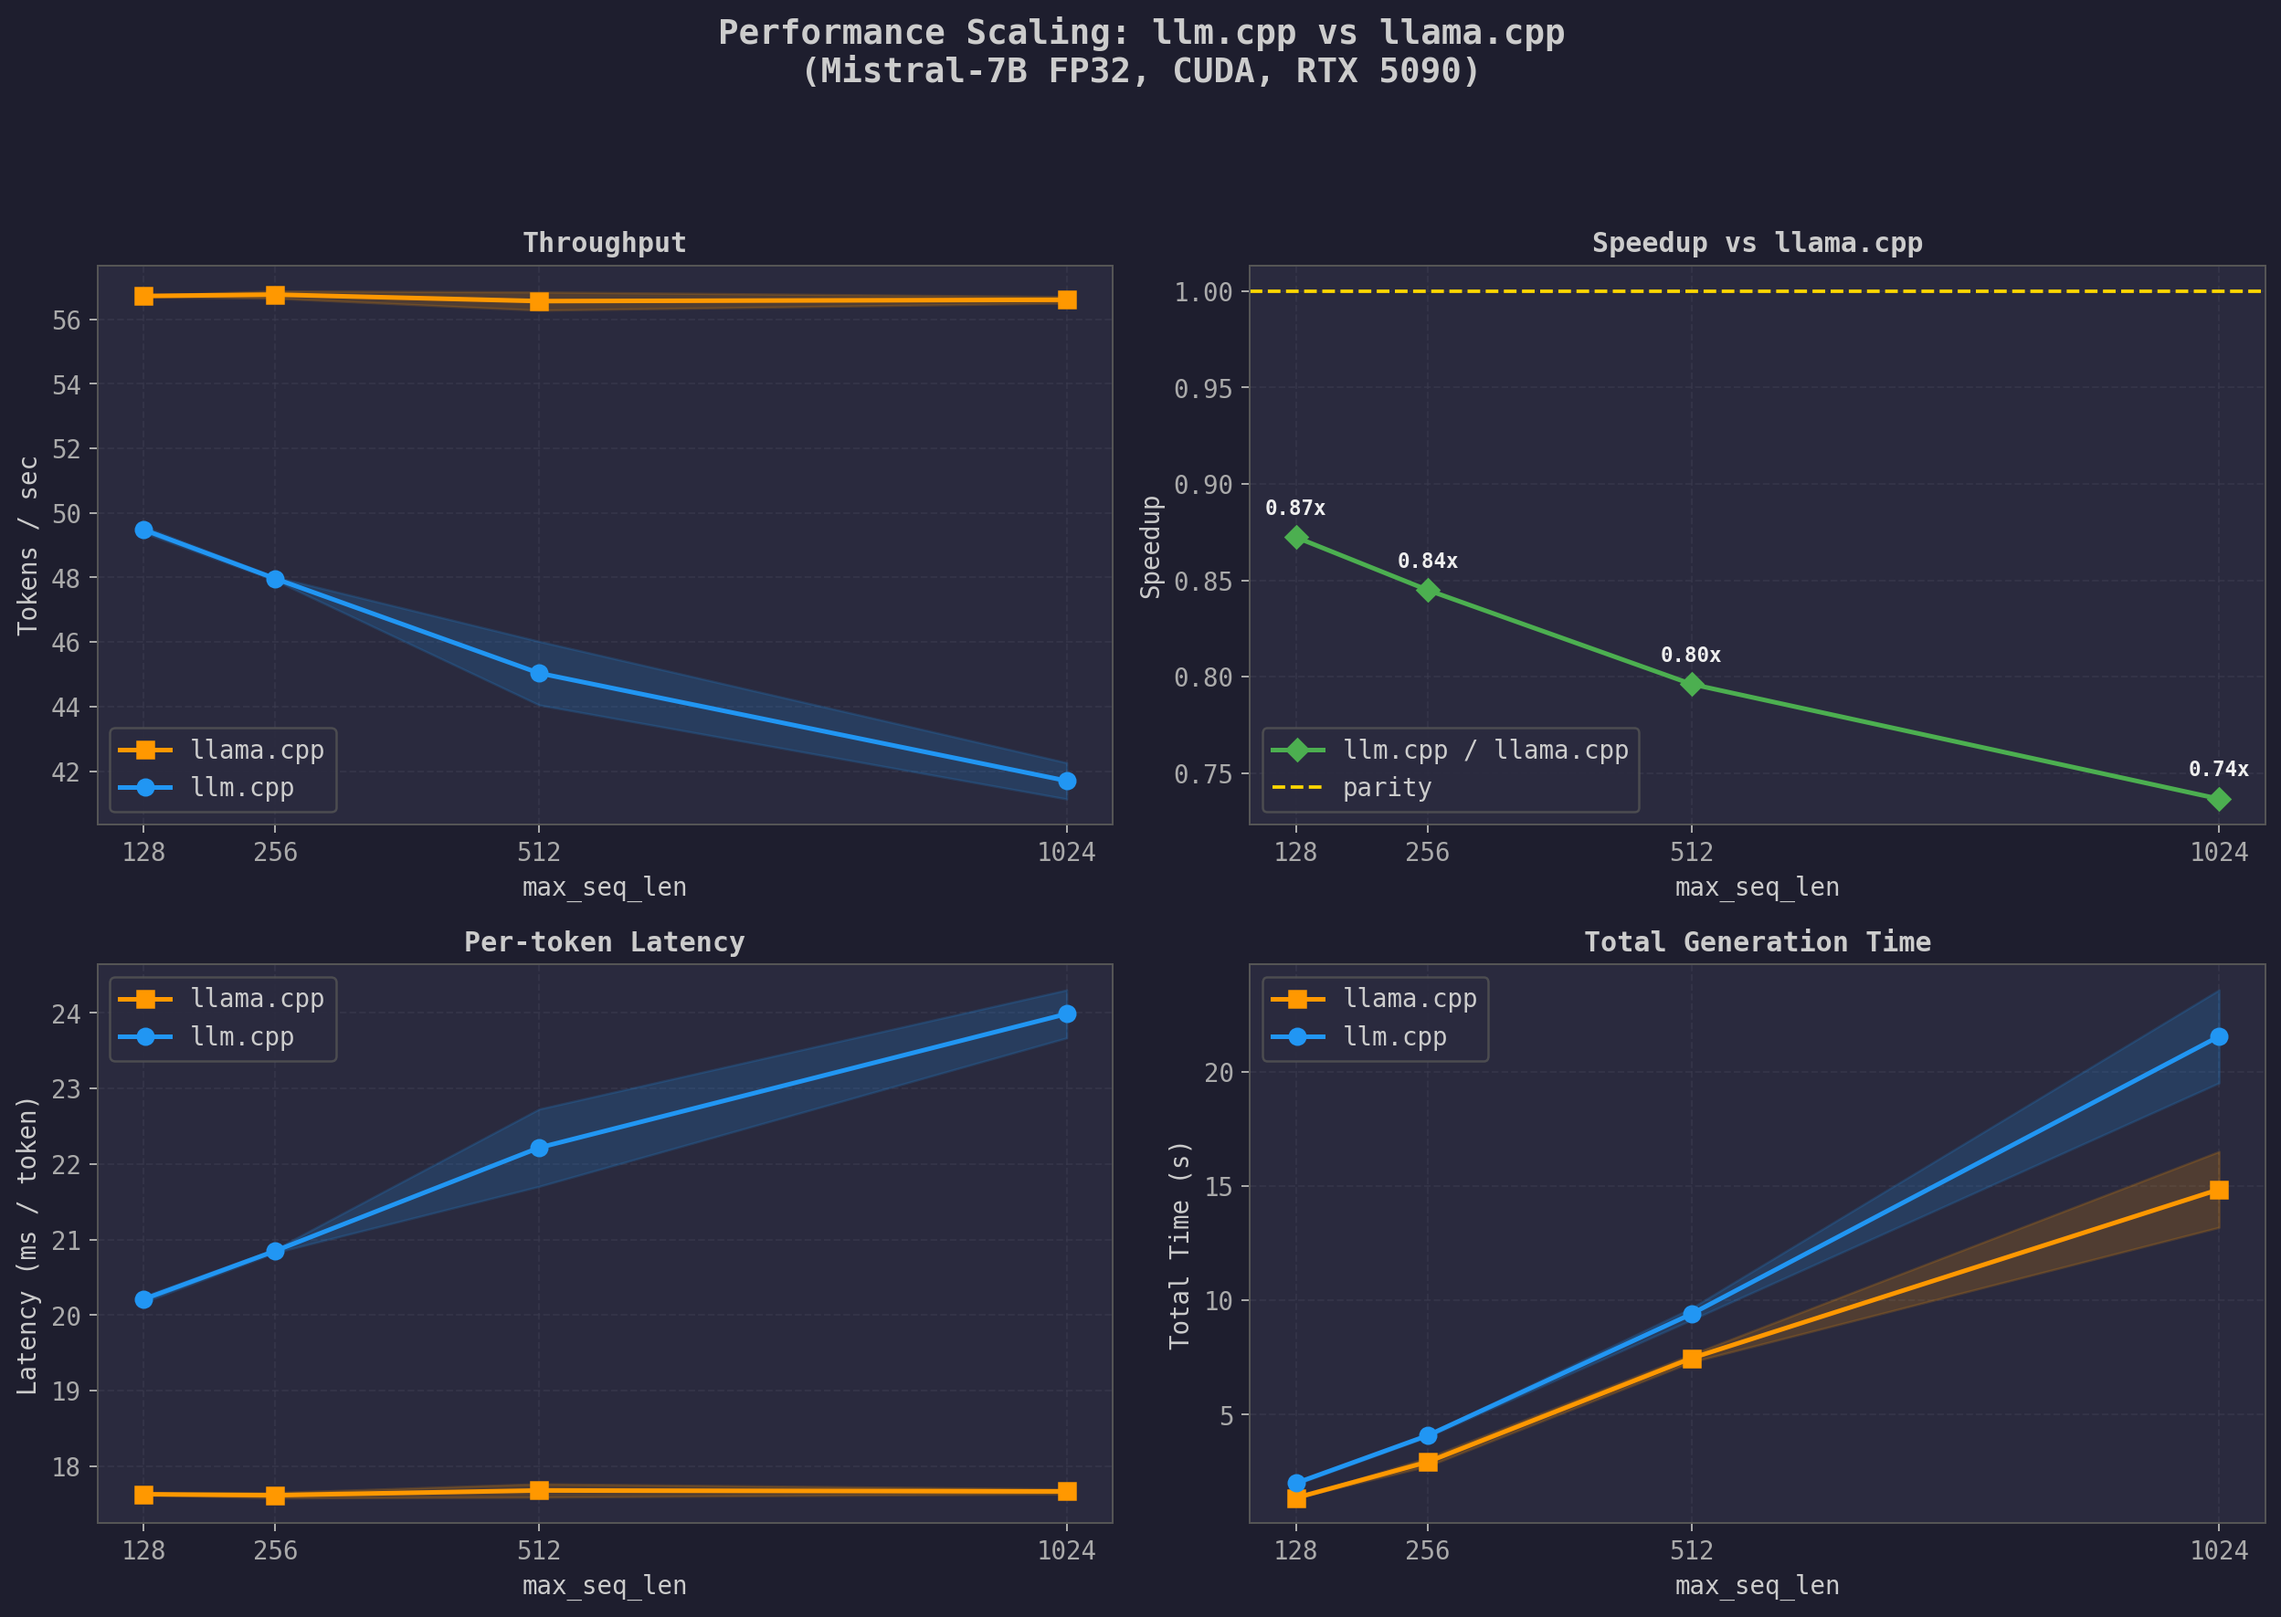
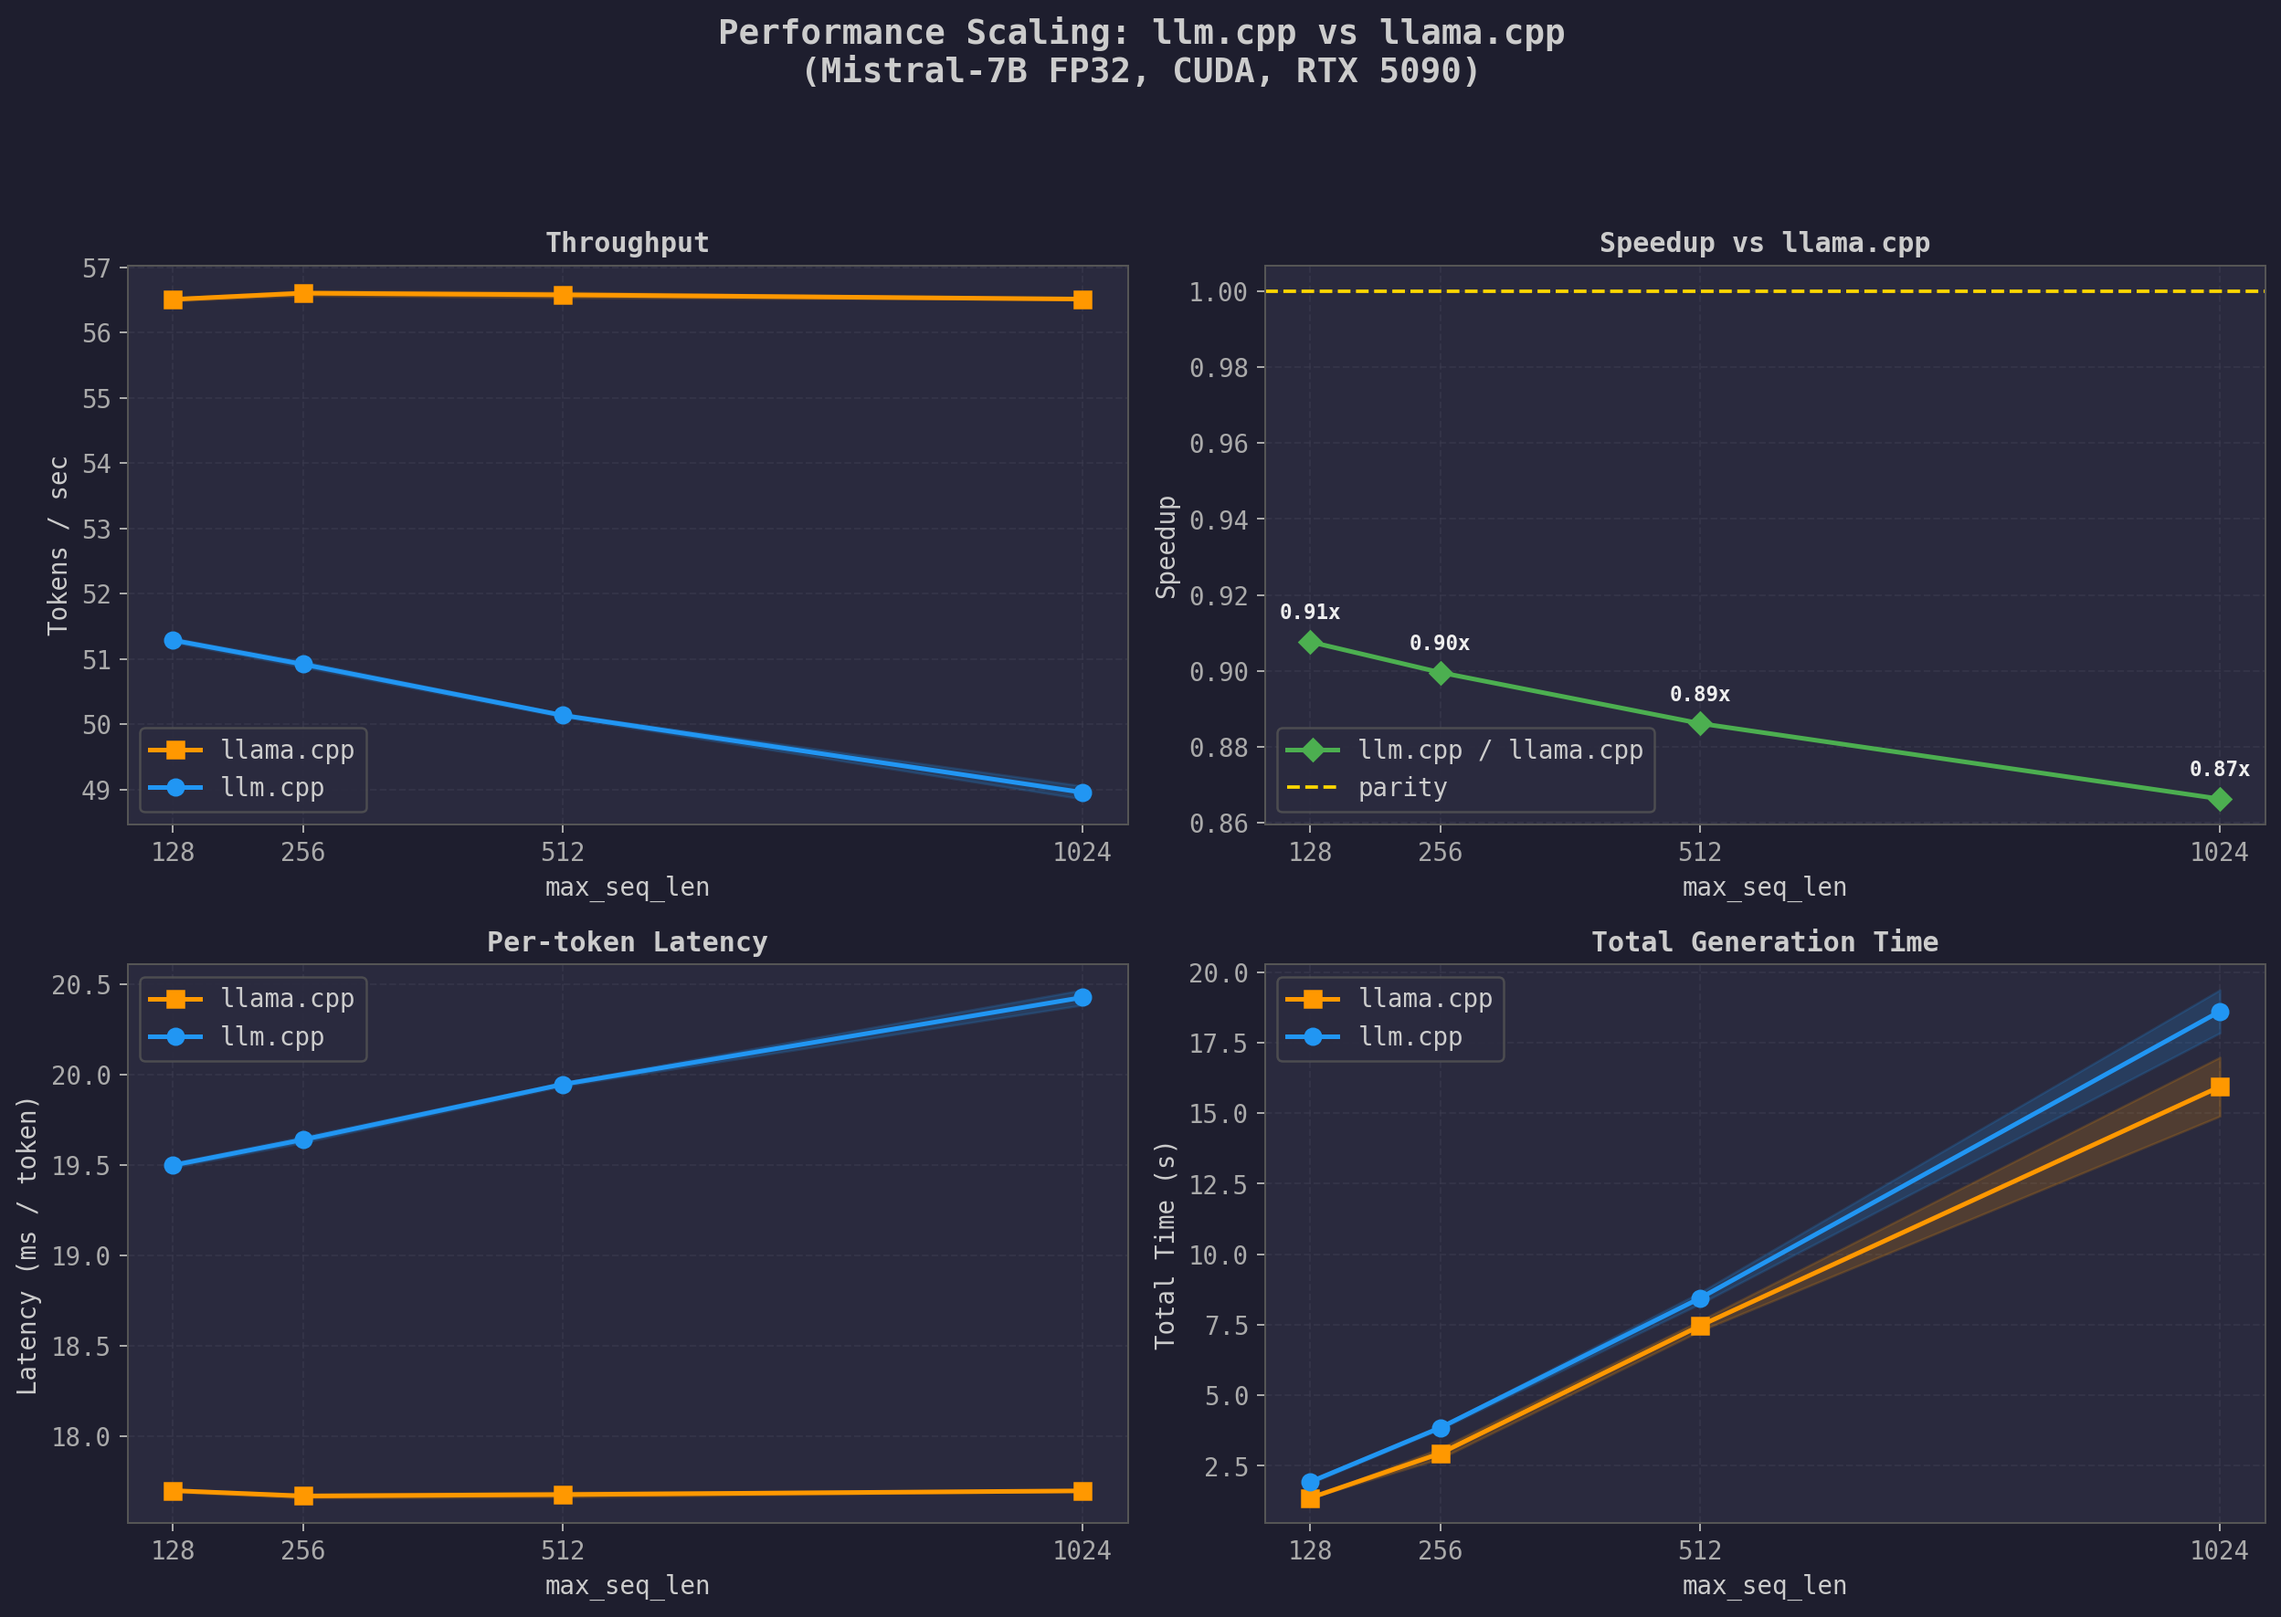
readme updates

diff --git a/README.md b/README.md
@@ -4,16 +4,16 @@ A from-scratch LLM inference engine in raw C++/CUDA for Mistral-v0.2 architectur
 
 ## Overview
 
-llm.cpp runs autoregressive inference on the **Mistral-7B-Instruct-v0.2** model on CPU (with OpenMP + AVX2/F16C) and on NVIDIA GPUs (with custom CUDA kernels). The entire forward pass - embedding lookup, RMSNorm, QKV projections, RoPE, grouped-query attention with KV caching, SiLU-gated FFN, and logit projection - is implemented from scratch with no dependencies on cuBLAS, cuDNN or any ML framework at runtime.
+llm.cpp runs autoregressive inference on the **Mistral-7B-Instruct-v0.2** model on CPU (with OpenMP + AVX2/F16C) and on NVIDIA GPUs (with custom CUDA kernels). The entire forward pass - embedding lookup, RMSNorm, QKV projections, RoPE, quantized FP16 KV cache, grouped-query attention, SiLU-gated FFN, and logit projection - is implemented from scratch with no dependencies on cuBLAS, cuDNN or any ML framework at runtime.
 
-**Key numbers** (NVIDIA RTX 5090, Mistral-7B FP32):
+**Key numbers** (NVIDIA RTX 5090, Mistral-7B FP32, FP16 KV cache):
 
 | Engine | Tok/s (seq_len=128) | Tok/s (seq_len=1024) | Latency (ms/tok) |
 |--------|---------------------|----------------------|-------------------|
-| **llm.cpp** (CUDA FP32) | **~50** | **~42**              | 20–24 |
-| llama.cpp (CUDA FP32) | ~57 | ~57                  | ~17.7 |
+| **llm.cpp** (CUDA FP32, FP16 KV) | **~51** | **~49**              | 19.5–20.4 |
+| llama.cpp (CUDA FP32, FP16 KV) | ~57 | ~57                  | ~17.7 |
 
-llm.cpp achieves **74–88%** of llama.cpp's throughput depending on context length - with hand-written kernels, no cuBLAS/cuDNN. See [Evaluation](#evaluation) for full results.
+llm.cpp achieves **87–91%** of llama.cpp's throughput depending on context length - with hand-written kernels, no cuBLAS/cuDNN. See [Evaluation](#evaluation) for full results.
 
 ## Architecture
 
@@ -50,8 +50,7 @@ For each transformer layer (×32 for Mistral-7B):
 
 1. **RMSNorm** on the residual stream
 2. **Fused QKV projection** - single kernel computes Q, K, V matmuls simultaneously
-3. **Rotary Position Embedding (RoPE)** with θ=1,000,000
-4. **KV cache update** - append K, V to the per-layer cache
+3. **Fused RoPE + KV cache update** - applies rotary position embedding (θ=1,000,000) and quantizes K, V to FP16 before appending to the per-layer cache
 5. **Grouped-Query Attention** - 32 query heads, 8 KV heads (4:1 GQA ratio)
    - Q·K^T scores → softmax → weighted V mix
 6. **Output projection + residual** - fused matmul with residual add
@@ -76,7 +75,7 @@ Conversion from HuggingFace safetensors via `convert.py`, which handles the QK p
 
 ## CUDA Kernels
 
-All kernels in `src/cu.cu` are FP32, using 512 threads/block (16 warps × 32 threads). Key design choices:
+All kernels stored in `src/cu.cu`. Compute is FP32; the KV cache is stored in FP16 for reduced memory bandwidth during attention. Key design choices:
 
 ### GEMV Kernels
 
@@ -94,22 +93,21 @@ Kernel fusion was the primary optimization strategy, reducing global memory roun
 | `fused_qkv_matmuls_kernel_fp32` | Q, K, V projections into one kernel | Reads input `x` once instead of 3× |
 | `fused_matmul_kernel_add_residual_fp32` | Matmul + residual connection | Eliminates intermediate buffer write/read |
 | `fused_ff1ff3matmul_silu_kernel_fp32` | Gate (W1) + Up (W3) projections + SiLU activation + element-wise multiply | Reads input once, applies activation in registers |
+| `fused_rope_kvcache_update_kernel_fp32` | RoPE + FP32→FP16 quantization + KV cache write | Eliminates separate RoPE pass and FP16 conversion round-trip |
 
 ### Attention Kernels
 
-The attention computation is split into three kernels for clarity and to allow tuning shared memory usage independently:
+The attention computation is split into three kernels for clarity and to allow tuning shared memory usage independently. The QK and V mix kernels read directly from the FP16 KV cache, halving memory bandwidth vs FP32:
 
-1. **`attention_qk_kernel_fp32`** - computes Q·K^T scores with `atomicAdd` reduction across threads, scaled by 1/√d_head
+1. **`attention_qk_kernel_fp32`** - computes Q·K^T scores reading FP16 keys, with `atomicAdd` reduction across threads, scaled by 1/√d_head
 2. **`softmax_kernel_fp32`** - numerically stable softmax with block-level max reduction followed by block-level sum reduction
-3. **`attention_vmix_kernel_fp32`** - weighted value mixing: att × V with reduction across the sequence dimension
+3. **`attention_vmix_kernel_fp32`** - weighted value mixing: att × V reading FP16 values, with loop unrolling and prefetch for memory latency hiding
 
 All attention kernels are GQA-aware: they compute the group index `g = head_id / group_size` to map multiple query heads to the same KV head.
 
 ### Other Kernels
 
 - **`rmsnorm_kernel_fp32`** - two-pass: (1) block reduction for mean-square, (2) element-wise scale with `rsqrtf`
-- **`rope_kernel`** - per-pair rotation using `__sincosf` for fast sin/cos
-- **`silu_kernel`** / **`residual_kernel`** - element-wise operations
 
 ## Profiling with NVIDIA Nsight Compute
 
@@ -139,6 +137,9 @@ Each commit on `feature/cuda-gpu-fp32` represents an optimization step informed 
 | 6 | `9f05894` | Excessive global memory traffic in FFN       | Fused matmul+residual, fused FF1+FF3+SiLU kernels              |
 | 7 | `b6d86c5` | 3× redundant input reads in QKV projection   | Fused QKV matmul kernel                                        |
 | 8 | `63135fd` | Attention kernel register pressure           | Attention kernel restructuring                                 |
+| 9 | `54c0857` | KV cache memory bandwidth bottleneck at long contexts | FP16 KV cache quantization, fused RoPE + KV cache update kernel |
+| 10 | `e36f5b4` | Sub-optimal memory transactions with FP16 KV | 128-byte aligned loads/stores, KV matmul kernel optimization   |
+| 11 | `3c856f3` | V mix kernel stalls on memory latency        | Loop unrolling + prefetch in attention V mix                   |
 
 
 ### Using Nsight Systems for End-to-End Profiling
@@ -155,29 +156,29 @@ The timeline also showed that `cudaDeviceSynchronize()` after every kernel launc
 
 ## Evaluation
 
-The `evaluate.py` script benchmarks llm.cpp against llama.cpp on Mistral-7B FP32 with CUDA, measuring how throughput scales with context length by running the same prompts at different `max_seq_len` values.
+The `evaluate.py` script benchmarks llm.cpp against llama.cpp on Mistral-7B FP32 (with FP16 KV cache) with CUDA, measuring how throughput scales with context length by running the same prompts at different `max_seq_len` values.
 
 ### Methodology
 
 Both engines receive the same 3 long-form prompts (GPU architecture, transformer implementation, AI history) - prompts designed to always produce more tokens than the context cap allows. The `max_seq_len` parameter is swept across `[128, 256, 512, 1024]`. Each configuration is run 3 times after 1 warmup run, with results averaged.
 
-For llm.cpp, `max_seq_len` is passed as a CLI argument that caps the KV cache and generation length. For llama.cpp, the equivalent is `-c <max_seq_len>` (context size). Both engines use temperature 0.7.
+For llm.cpp, `max_seq_len` is passed as a CLI argument that caps the KV cache and generation length. For llama.cpp, the equivalent is `-c <max_seq_len>` (context size). Both engines use temperature 0.7 and FP16 KV cache (llama.cpp's default).
 
 
 ### Results
 
 ![Scaling Panel](imgs/scaling_panel_GPU.png)
 
-- **Top-left (Throughput):** llama.cpp holds flat at ~57 tok/s regardless of context length. llm.cpp starts at ~50 tok/s on short contexts and drops to ~42 tok/s at max_seq_len=1024 - the gap widens from ~12% to ~26%.
-- **Top-right (Speedup):** llm.cpp runs at 0.85–0.88x of llama.cpp on short contexts, dropping to ~0.74x at 1024. The parity line (1.0x) is the target.
-- **Bottom-left (Latency):** Mirror of throughput. llama.cpp stays at ~17.7 ms/tok. llm.cpp ranges from ~20 ms/tok (128) to ~24 ms/tok (1024).
-- **Bottom-right (Total Time):** At max_seq_len=1024, llm.cpp takes ~22s vs llama.cpp's ~16s.
+- **Top-left (Throughput):** llama.cpp holds flat at ~57 tok/s regardless of context length. llm.cpp starts at ~51 tok/s on short contexts and drops to ~49 tok/s at max_seq_len=1024 - the gap narrows from ~10% to ~13%.
+- **Top-right (Speedup):** llm.cpp runs at 0.91x of llama.cpp on short contexts, dropping to ~0.87x at 1024. The parity line (1.0x) is the target.
+- **Bottom-left (Latency):** Mirror of throughput. llama.cpp stays at ~17.7 ms/tok. llm.cpp ranges from ~19.5 ms/tok (128) to ~20.4 ms/tok (1024).
+- **Bottom-right (Total Time):** At max_seq_len=1024, llm.cpp takes ~18.6s vs llama.cpp's ~15.9s.
 
 #### Analysis
 
-Achieving **74–88% of llama.cpp's throughput** with a from-scratch engine is a good result. llama.cpp is a mature project with years of optimization by hundreds of contributors, backed by the ggml tensor library, and featuring flash attention, CUDA graph execution, and async kernel scheduling.
+Achieving **87–91% of llama.cpp's throughput** with a from-scratch engine is a strong result. llama.cpp is a mature project with years of optimization by hundreds of contributors, backed by the ggml tensor library, and featuring flash attention, CUDA graph execution, and async kernel scheduling.
 
-llama.cpp's throughput stays flat across context lengths, while llm.cpp degrades. The GEMV matmuls that dominate runtime are O(d²) per token regardless of context length, but attention is O(seq_len) - as context grows, attention takes a larger share of total per-token time. llm.cpp's attention is split across 3 separate kernel launches (QK^T, softmax, V mix), each with launch overhead and a `cudaDeviceSynchronize()` barrier. llama.cpp mitigates this with flash decoding and async execution via CUDA graphs/streams. Both are targets on the [Roadmap](#roadmap).
+The remaining gap to llama.cpp is primarily due to attention kernel structure: llm.cpp's attention is split across 3 separate kernel launches (QK^T, softmax, V mix), each with launch overhead and a `cudaDeviceSynchronize()` barrier. llama.cpp mitigates this with flash decoding and async execution via CUDA graphs/streams. Both are targets on the [Roadmap](#roadmap).
 
 ## Build
 
@@ -302,7 +303,6 @@ llm.cpp/
 
 - **Flash decoding** - fused single-pass attention kernel for autoregressive decoding to reduce per-token attention overhead and flatten throughput across context lengths
 - **Async kernel execution** - replace `cudaDeviceSynchronize()` with CUDA streams/graphs to overlap kernel execution and hide launch latency
-- **Quantized KV cache** - store K/V in FP16 or INT8 to reduce VRAM usage and enable longer context windows
 - **Paged attention** - memory-efficient attention for very long sequences without pre-allocating the full KV cache
 - **Batched inference** - process multiple sequences in parallel
 - **Multi-GPU support** - tensor parallelism across devices
